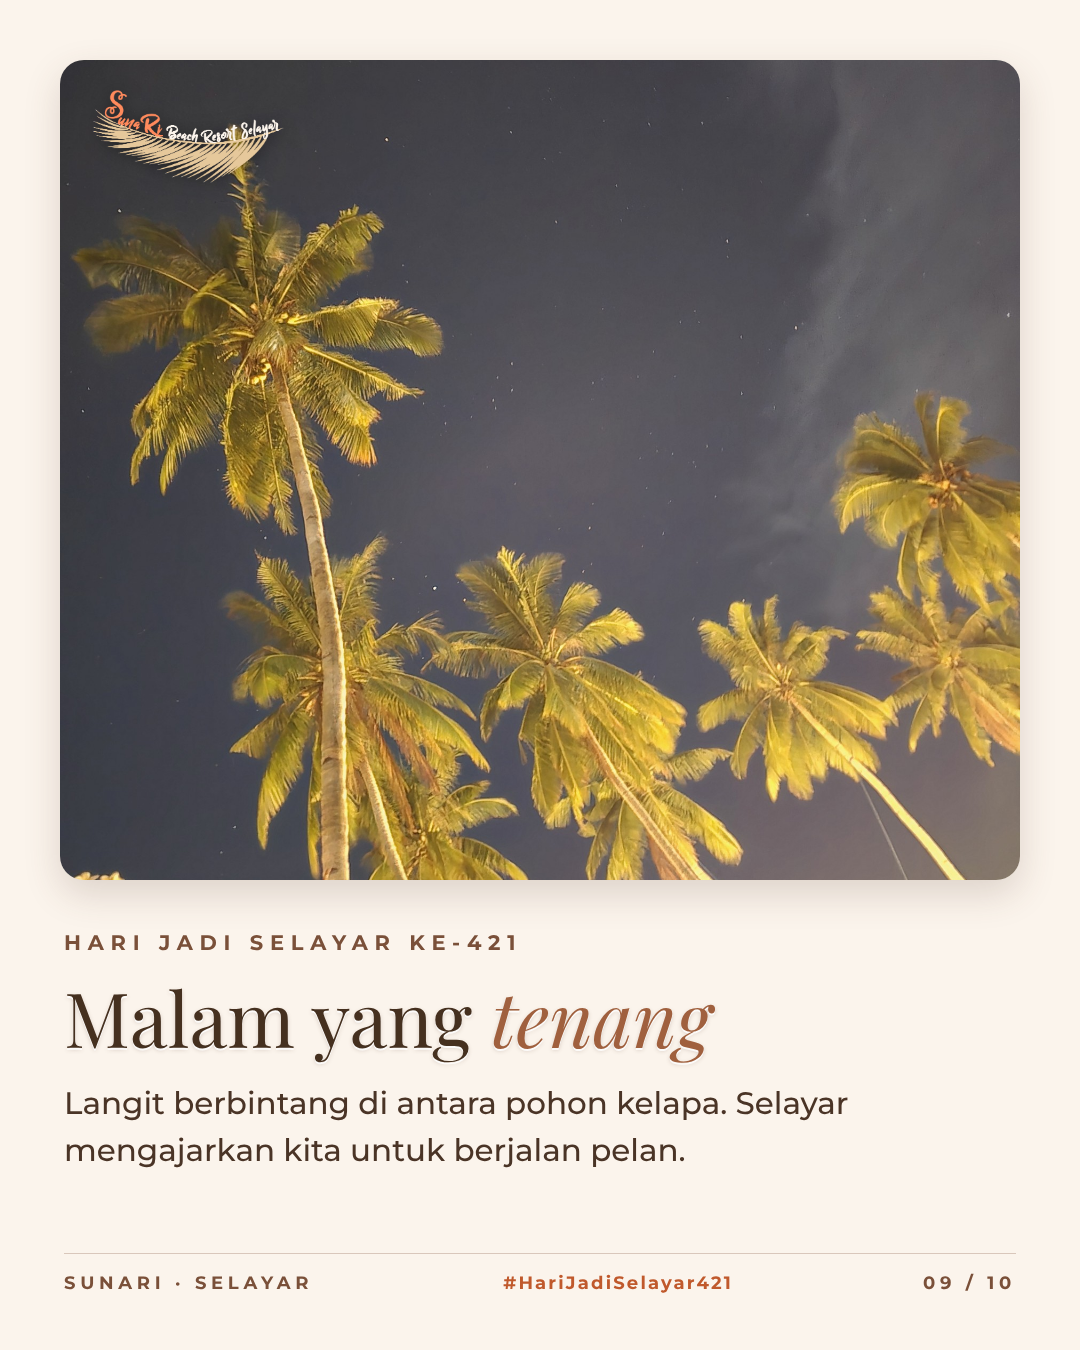
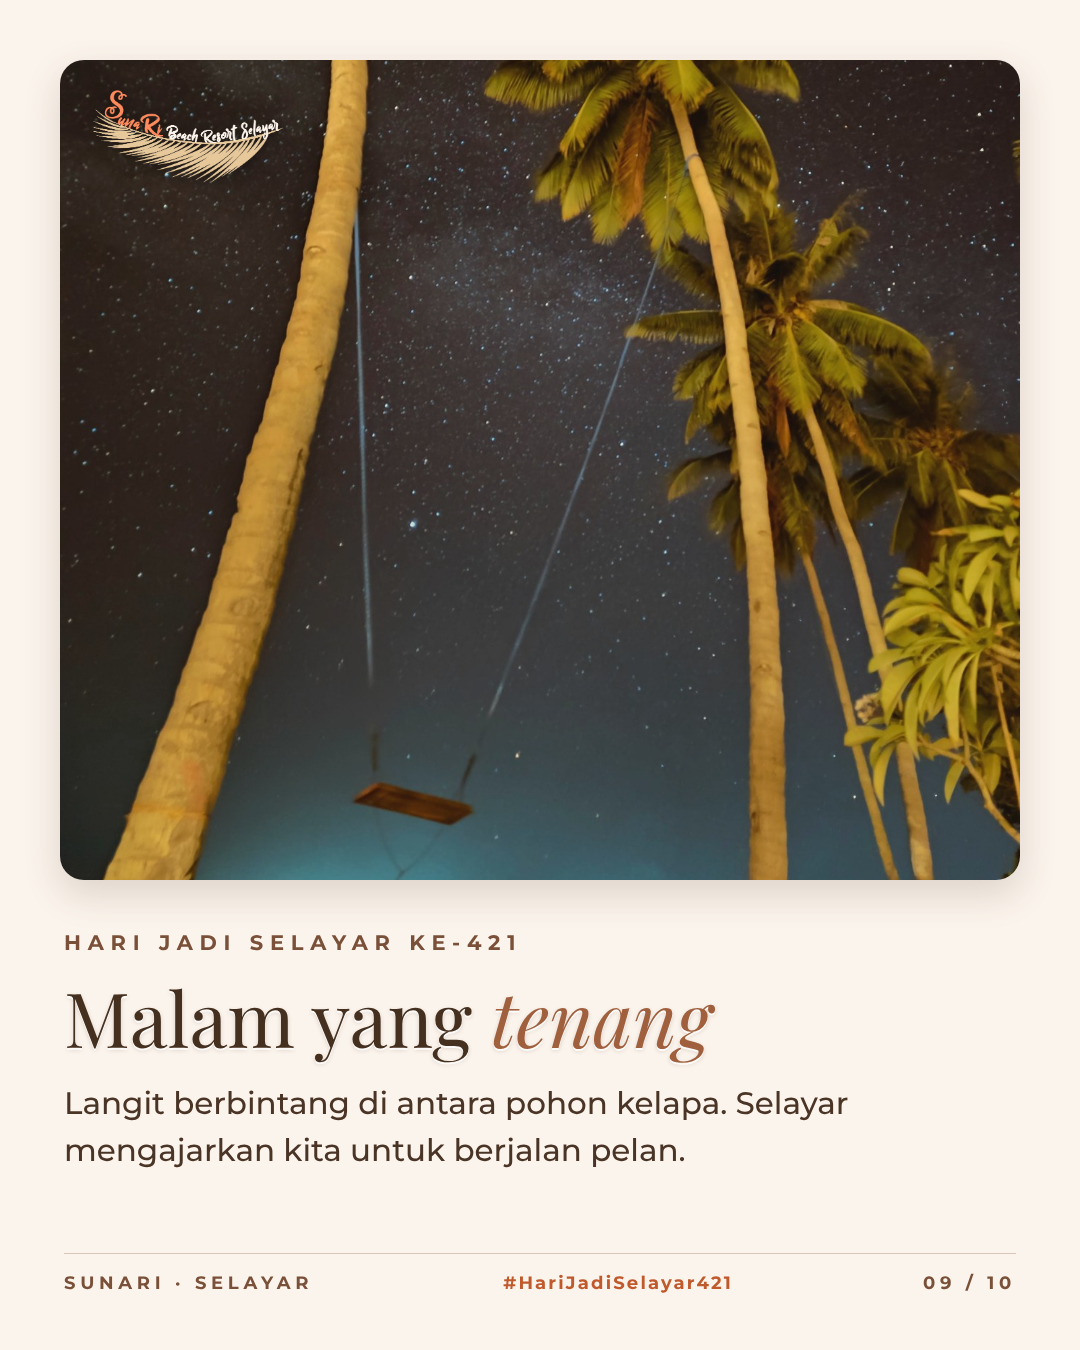
Feed Hari Jadi Selayar slide 9: foto ayunan & pohon kelapa berbintang dari pemilik (grading SunaRi)
Claude-Session: https://claude.ai/code/session_01KeLc5eBGUnchV5ne3wvwHX

diff --git a/social/hari_jadi_feed.html b/social/hari_jadi_feed.html
@@ -52,7 +52,7 @@ body{background:#bbb;font-family:Montserrat,sans-serif}
   <div class="kick">Hari Jadi Selayar ke-421</div><div class="ttl emb">Gua yang <em>dibentuk laut</em></div><div class="sub">Gua Lipang di Pulau Bahuluang: stalaktit menggantung, lantai pasir putih, sejuk di dalam.</div>
   <div class="bt"><span>SunaRi · Selayar</span><span class="h">#HariJadiSelayar421</span><span>07 / 10</span></div></div><div class="t" id="hari-jadi-08"><div class="ph"><img src="hari-jadi-selayar-feed/foto/senja__21-siluet-tamu-tepi-pantai.jpg" style="object-position:50% 55%" alt=""><img class="lg" src="../assets/logo-sunari-color-dark.png" alt=""></div>
   <div class="kick">Hari Jadi Selayar ke-421</div><div class="ttl emb">Senja di <em>pesisir barat</em></div><div class="sub">Setiap sore matahari tenggelam di depan Pantai Sunari. Hadiah kecil dari Selayar untuk siapa saja yang singgah.</div>
-  <div class="bt"><span>SunaRi · Selayar</span><span class="h">#HariJadiSelayar421</span><span>08 / 10</span></div></div><div class="t" id="hari-jadi-09"><div class="ph"><img src="hari-jadi-selayar-feed/foto/malam__18-kelapa-dan-bintang.jpg" style="object-position:50% 50%" alt=""><img class="lg" src="../assets/logo-sunari-color-dark.png" alt=""></div>
+  <div class="bt"><span>SunaRi · Selayar</span><span class="h">#HariJadiSelayar421</span><span>08 / 10</span></div></div><div class="t" id="hari-jadi-09"><div class="ph"><img src="hari-jadi-selayar-feed/foto/malam__30-ayunan-kelapa-bintang.jpg" style="object-position:50% 86%" alt=""><img class="lg" src="../assets/logo-sunari-color-dark.png" alt=""></div>
   <div class="kick">Hari Jadi Selayar ke-421</div><div class="ttl emb">Malam yang <em>tenang</em></div><div class="sub">Langit berbintang di antara pohon kelapa. Selayar mengajarkan kita untuk berjalan pelan.</div>
   <div class="bt"><span>SunaRi · Selayar</span><span class="h">#HariJadiSelayar421</span><span>09 / 10</span></div></div><div class="t" id="hari-jadi-10"><div class="frame"></div>
   <img src="../assets/logo-sunari-color.png" style="position:absolute;left:50%;transform:translateX(-50%);top:90px;width:280px" alt="">

diff --git a/social/build_hari_jadi_feed.py b/social/build_hari_jadi_feed.py
@@ -35,7 +35,7 @@ SL = [
   'Gua Lipang di Pulau Bahuluang: stalaktit menggantung, lantai pasir putih, sejuk di dalam.'),
  (P + "senja__21-siluet-tamu-tepi-pantai.jpg", "50% 55%", 'Senja di <em>pesisir barat</em>',
   'Setiap sore matahari tenggelam di depan Pantai Sunari. Hadiah kecil dari Selayar untuk siapa saja yang singgah.'),
- (P + "malam__18-kelapa-dan-bintang.jpg", "50% 50%", 'Malam yang <em>tenang</em>',
+ (P + "malam__30-ayunan-kelapa-bintang.jpg", "50% 86%", 'Malam yang <em>tenang</em>',
   'Langit berbintang di antara pohon kelapa. Selayar mengajarkan kita untuk berjalan pelan.'),
 ]
 for k, (img, pos, t, sub) in enumerate(SL, 2):

diff --git a/assets/photos/KATALOG_FOTO.md b/assets/photos/KATALOG_FOTO.md
@@ -270,6 +270,7 @@ Pasangan mirip (60/61, 66/67): pakai salah satu dalam satu seri, atau beda crop.
 | `malam/16-tangga-kayu-lantai-2.jpg` | Tangga kayu menuju lantai 2 | ✅ | Family Superior (akses lantai 2) |
 | `malam/17-tepi-pantai-lampu-gantung.jpg` | Meja di tepi pantai, lampu gantung, dua tamu (siluet) | ✅ | Bajoy / Senja Dinner |
 | `malam/18-kelapa-dan-bintang.jpg` | Pohon kelapa & langit berbintang | ✅ | Penutup feed, quote malam |
+| `malam/30-ayunan-kelapa-bintang.jpg` | Ayunan raksasa di antara pohon kelapa, langit berbintang & bima sakti (dari pemilik, 27 Nov 2026) | ✅ (tanpa orang) | **Dipakai: feed Hari Jadi Selayar slide 9**, konten malam |
 | `malam/19-taman-bulan-jembatan.jpg` | Bulan purnama, taman bougenvil, jembatan kayu | ✅ | Sampul feed malam |
 | `malam/20-gazebo-berlampu-kelapa.jpg` | Gazebo bambu berlampu di bawah deretan kelapa, bougenvil | ✅ | Sampul feed malam, OTA |
 | `malam/21-bajoy-beach-resto-malam.jpg` | Papan nama & area Bajoy Beach Resto malam | ✅ | Konten resto |
